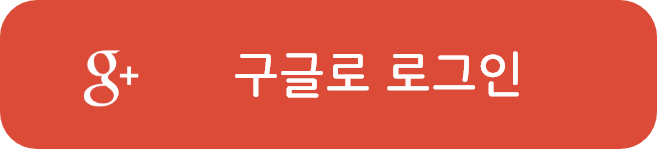
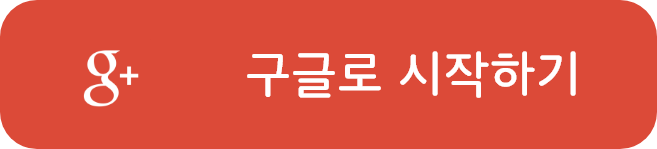
✨ open graph 추가 및 🔧 로그인 버튼 이미지 수정

Changed region(s): [[0.3349, 0.349, 0.8828, 0.6711]]

diff --git a/client/public/index.html b/client/public/index.html
@@ -2,15 +2,23 @@
 <html lang="en">
   <head>
     <meta charset="utf-8" />
-    <link rel="icon" href="wanna-try-this_favicon.ico" />
     <meta name="viewport" content="width=device-width, initial-scale=1" />
     <meta name="theme-color" content="#000000" />
     <meta name="description" content="오늘 뭐 먹을까? "이거 먹을랭?"" />
-
+    <meta property="og:type" content="website" />
+    <meta property="og:title" content="이거머글랭?" />
+    <meta
+      property="og:description"
+      content="오늘 당신의 메뉴를 정해드릴게요!"
+    />
+    <meta property="og:image" content="og-image.png" />
+    <meta property="og:image:width" content="1200" />
+    <meta property="og:image:height" content="630" />
+    <link rel="icon" href="wanna-try-this_favicon.ico" />
     <link rel="manifest" href="%PUBLIC_URL%/manifest.json" />
-
-    <title>이거 먹을랭?</title>
+    <title>이거머글랭?</title>
   </head>
+
   <body>
     <noscript>You need to enable JavaScript to run this app.</noscript>
     <div id="root"></div>
